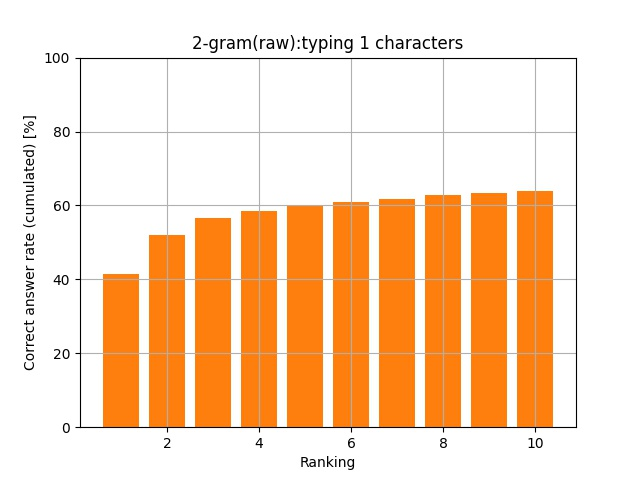
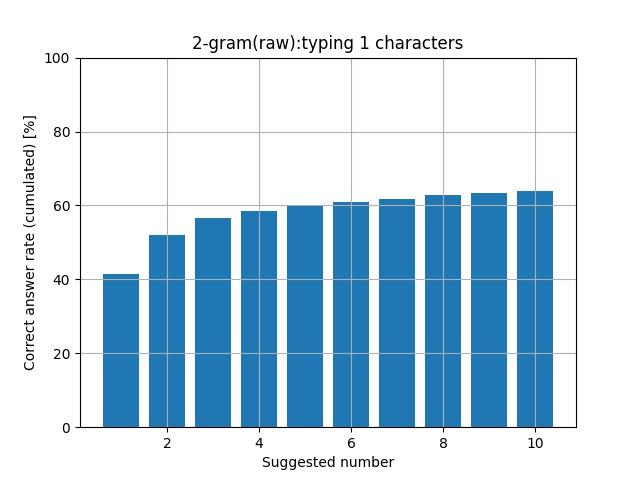
raw_ngram_modelの評価

Changed region(s): [[0.1562, 0.375, 0.875, 0.9062], [0.4062, 0.9375, 0.625, 1.0]]

diff --git a/assess_accuracy.py b/assess_accuracy.py
@@ -8,6 +8,8 @@ from pprint import pprint
 
 # 何候補目までの精度を計測するか指定
 Ranking_Number = 10
+# 何文字目までの入力文字数の精度を計測するか指定
+Input_Length = 6
 
 def assess_file_accuracy(file_name, model):
     N = model.N
@@ -130,24 +132,31 @@ def assess_mml_accuracy(model):
         prediction_times += file_prediction_times
         # ユーザの2文字の入力まで保存
         # file_all_resultから，all_resultに結果を加える
-        for i in range(3):
+        for i in range(Input_Length):
             all_result.setdefault(i, np.array([0 for _ in range(Ranking_Number)]))
             all_token_nums.setdefault(i+1, 0)
             all_result[i] += np.array(file_all_result[i])
             all_token_nums[i+1] += np.array(file_all_token_nums[i+1])
 
-    for i in range(3):
+    print()
+    print(model.N)
+    print(all_result)
+    print(prediction_times)
+
+    for i in range(Input_Length):
         prediction_result = all_result[i]
         draw(model.N, prediction_result, prediction_times, i)
         # 入力済みのi+1文字以下は予測対象外なので除外
         prediction_times -= all_token_nums[i+1]
+    
+
 
 
 
 def draw(N, prediction_result, prediction_times, i):
-    title = f'{N}-gram(raw):typing {i} characters'
+    title = f'{N}-gram(trie)):typing {i} characters'
     plt.title(title)
-    plt.xlabel('Ranking')
+    plt.xlabel('Suggested number')
     plt.ylabel('Correct answer rate (cumulated) [%]')
     plt.ylim(0, 100)
     plt.grid(True)
@@ -163,3 +172,4 @@ def draw(N, prediction_result, prediction_times, i):
         plt.text(x, y, '', ha='center', va='bottom', fontsize=7)
         count += 1
     plt.savefig(f'graphs/{title}.jpg')
+    plt.clf()
